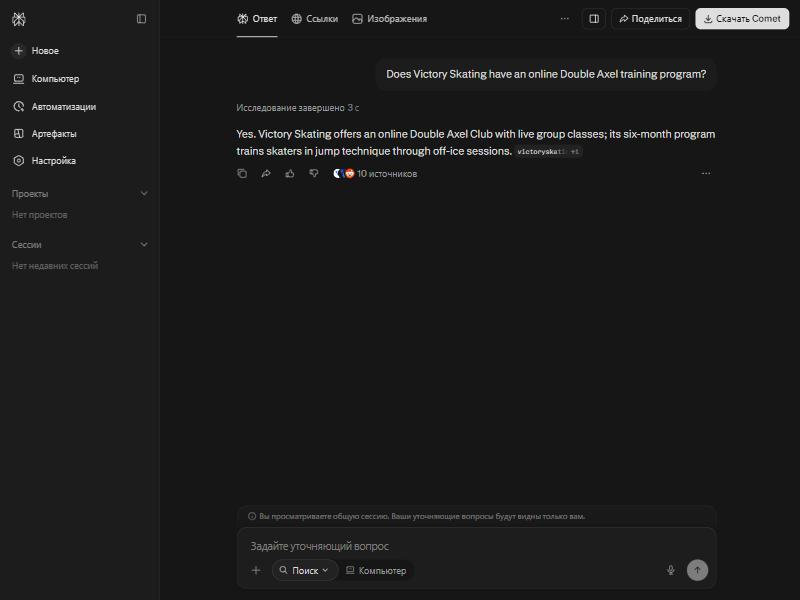
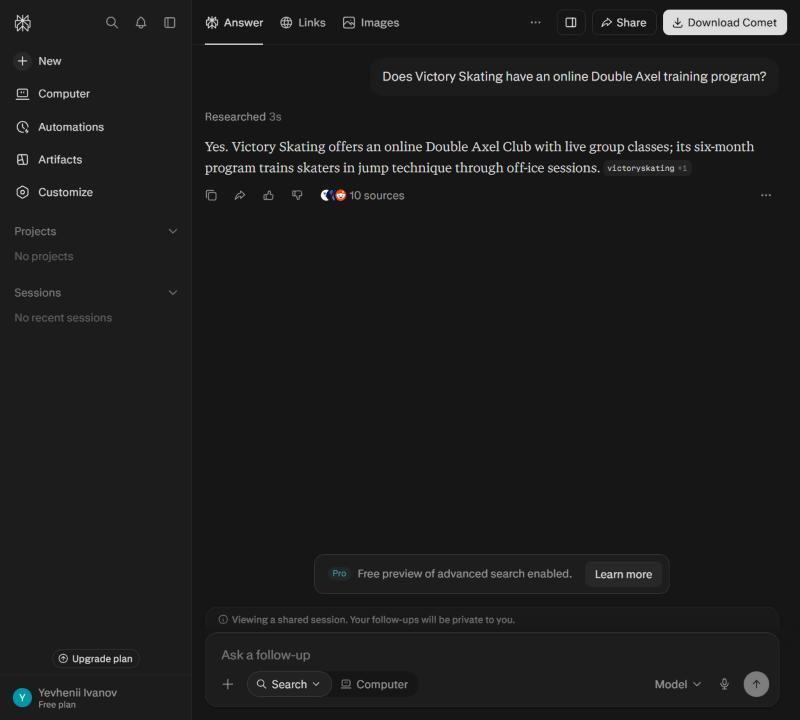
Log reads of the AI-facing surfaces (path, client, time) at /api/readers
Shows which assistants and crawlers actually fetch llms.txt, the fact
sheets and /mcp. No IPs or cookies; last 500 hits in memory.

diff --git a/src/Commerce.Gateway/Hosting/ReaderLog.cs b/src/Commerce.Gateway/Hosting/ReaderLog.cs
@@ -1,0 +1,52 @@
+using System.Collections.Concurrent;
+using Microsoft.Extensions.Options;
+
+namespace Commerce.Gateway.Hosting;
+
+/// <summary>Who read the AI-facing surfaces: when, which path, which client. No IPs, no cookies.</summary>
+public sealed record ReaderHit(DateTimeOffset At, string Path, int Status, string? UserAgent);
+
+/// <summary>
+/// Shows which assistants and crawlers actually fetch llms.txt, the fact sheets and /mcp — the
+/// evidence for "how the AI receives the product information". In memory, last 500 hits.
+/// </summary>
+public sealed class ReaderLog
+{
+    private const int Capacity = 500;
+    private readonly ConcurrentQueue<ReaderHit> _hits = new();
+
+    public void Record(ReaderHit hit)
+    {
+        _hits.Enqueue(hit);
+        while (_hits.Count > Capacity)
+            _hits.TryDequeue(out _);
+    }
+
+    public IReadOnlyList<ReaderHit> Recent(int max) => _hits.Reverse().Take(max).ToList();
+
+    public static bool IsAiSurface(PathString path) =>
+        path == "/" || path.StartsWithSegments("/llms.txt") || path.StartsWithSegments("/llms-full.txt")
+        || path.StartsWithSegments("/programs") || path.StartsWithSegments("/mcp") || path.StartsWithSegments("/api/programs");
+}
+
+public static class ReaderLogEndpoints
+{
+    public static IApplicationBuilder UseReaderLog(this IApplicationBuilder app) => app.Use(async (context, next) =>
+    {
+        await next(context);
+        if (ReaderLog.IsAiSurface(context.Request.Path))
+        {
+            context.RequestServices.GetRequiredService<ReaderLog>().Record(new ReaderHit(
+                context.RequestServices.GetRequiredService<TimeProvider>().GetUtcNow(),
+                context.Request.Path + context.Request.QueryString,
+                context.Response.StatusCode,
+                context.Request.Headers.UserAgent.ToString() is { Length: > 0 } ua ? ua[..Math.Min(ua.Length, 200)] : null));
+        }
+    });
+
+    public static void MapReaderLog(this IEndpointRouteBuilder app) =>
+        app.MapGet("/api/readers", (int? take, ReaderLog log, IOptions<GatewayOptions> options) =>
+                options.Value.ExposeFunnel ? Results.Ok(log.Recent(Math.Clamp(take ?? 100, 1, 500))) : Results.NotFound())
+            .WithTags("Checkout")
+            .WithSummary("Recent reads of the AI-facing surfaces (path, client, time — no personal data)");
+}

diff --git a/src/Commerce.Gateway/Program.cs b/src/Commerce.Gateway/Program.cs
@@ -37,6 +37,7 @@ builder.Services.AddSingleton(TimeProvider.System);
 builder.Services.AddSingleton(catalog);
 builder.Services.AddSingleton(providerRegistry);
 builder.Services.AddSingleton<IFunnelLog, InMemoryFunnelLog>();
+builder.Services.AddSingleton<ReaderLog>();
 builder.Services.AddSingleton<ProductSearch>();
 builder.Services.AddSingleton<AvailabilityService>();
 builder.Services.AddSingleton<ProgramFacts>();
@@ -79,6 +80,7 @@ builder.Services.Configure<ForwardedHeadersOptions>(o =>
 var app = builder.Build();
 
 app.UseForwardedHeaders();
+app.UseReaderLog();
 app.MapOpenApi();
 app.MapGet("/openapi.json", () => Results.Redirect("/openapi/v1.json")).ExcludeFromDescription();
 app.MapGet("/healthz", () => Results.Ok(new { status = "ok", catalog = catalog.Merchant.Id, products = catalog.Document.Products.Count }))
@@ -87,6 +89,7 @@ app.MapGet("/healthz", () => Results.Ok(new { status = "ok", catalog = catalog.M
 app.MapMcp("/mcp");
 app.MapCommerceApi();
 app.MapCheckout();
+app.MapReaderLog();
 app.MapDiscovery();
 
 app.Run();

diff --git a/tests/Commerce.Tests/GatewayTests.cs b/tests/Commerce.Tests/GatewayTests.cs
@@ -220,6 +220,20 @@ public class DiscoveryTests : IClassFixture<GatewayTests.Factory>
     }
 
     [Fact]
+    public async Task Reads_of_the_ai_surfaces_are_logged_with_the_client_that_made_them()
+    {
+        var http = _factory.CreateClient();
+        var request = new HttpRequestMessage(HttpMethod.Get, "/llms-full.txt");
+        request.Headers.UserAgent.ParseAdd("Perplexity-User/1.0");
+
+        await http.SendAsync(request, Ct);
+        var readers = await http.GetFromJsonAsync<JsonElement>("/api/readers", Ct);
+
+        Assert.Contains(readers.EnumerateArray(), r =>
+            r.GetProperty("path").GetString() == "/llms-full.txt" && r.GetProperty("userAgent").GetString() == "Perplexity-User/1.0");
+    }
+
+    [Fact]
     public async Task A_prototype_host_asks_not_to_be_indexed_and_says_what_it_is()
     {
         var http = _factory.CreateClient();
